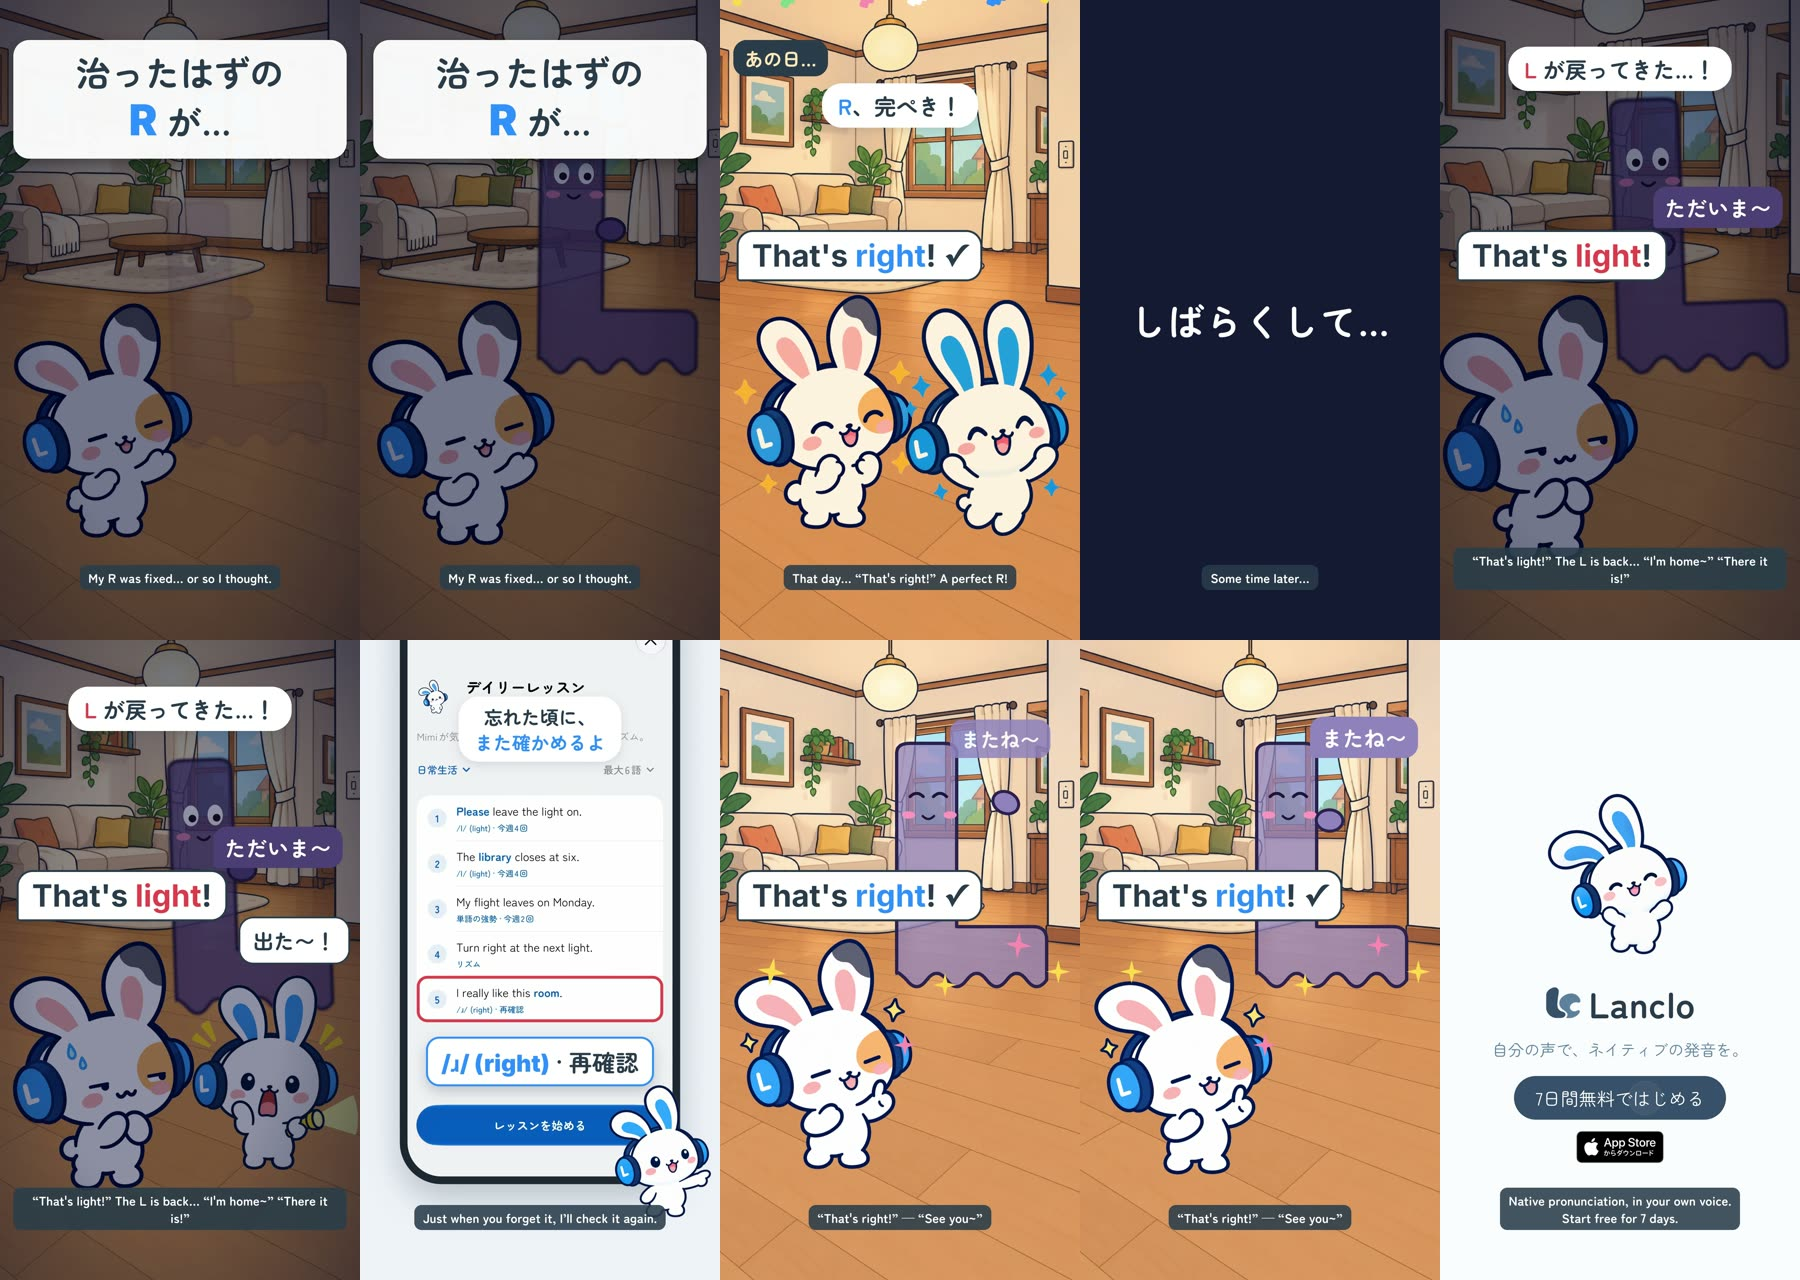
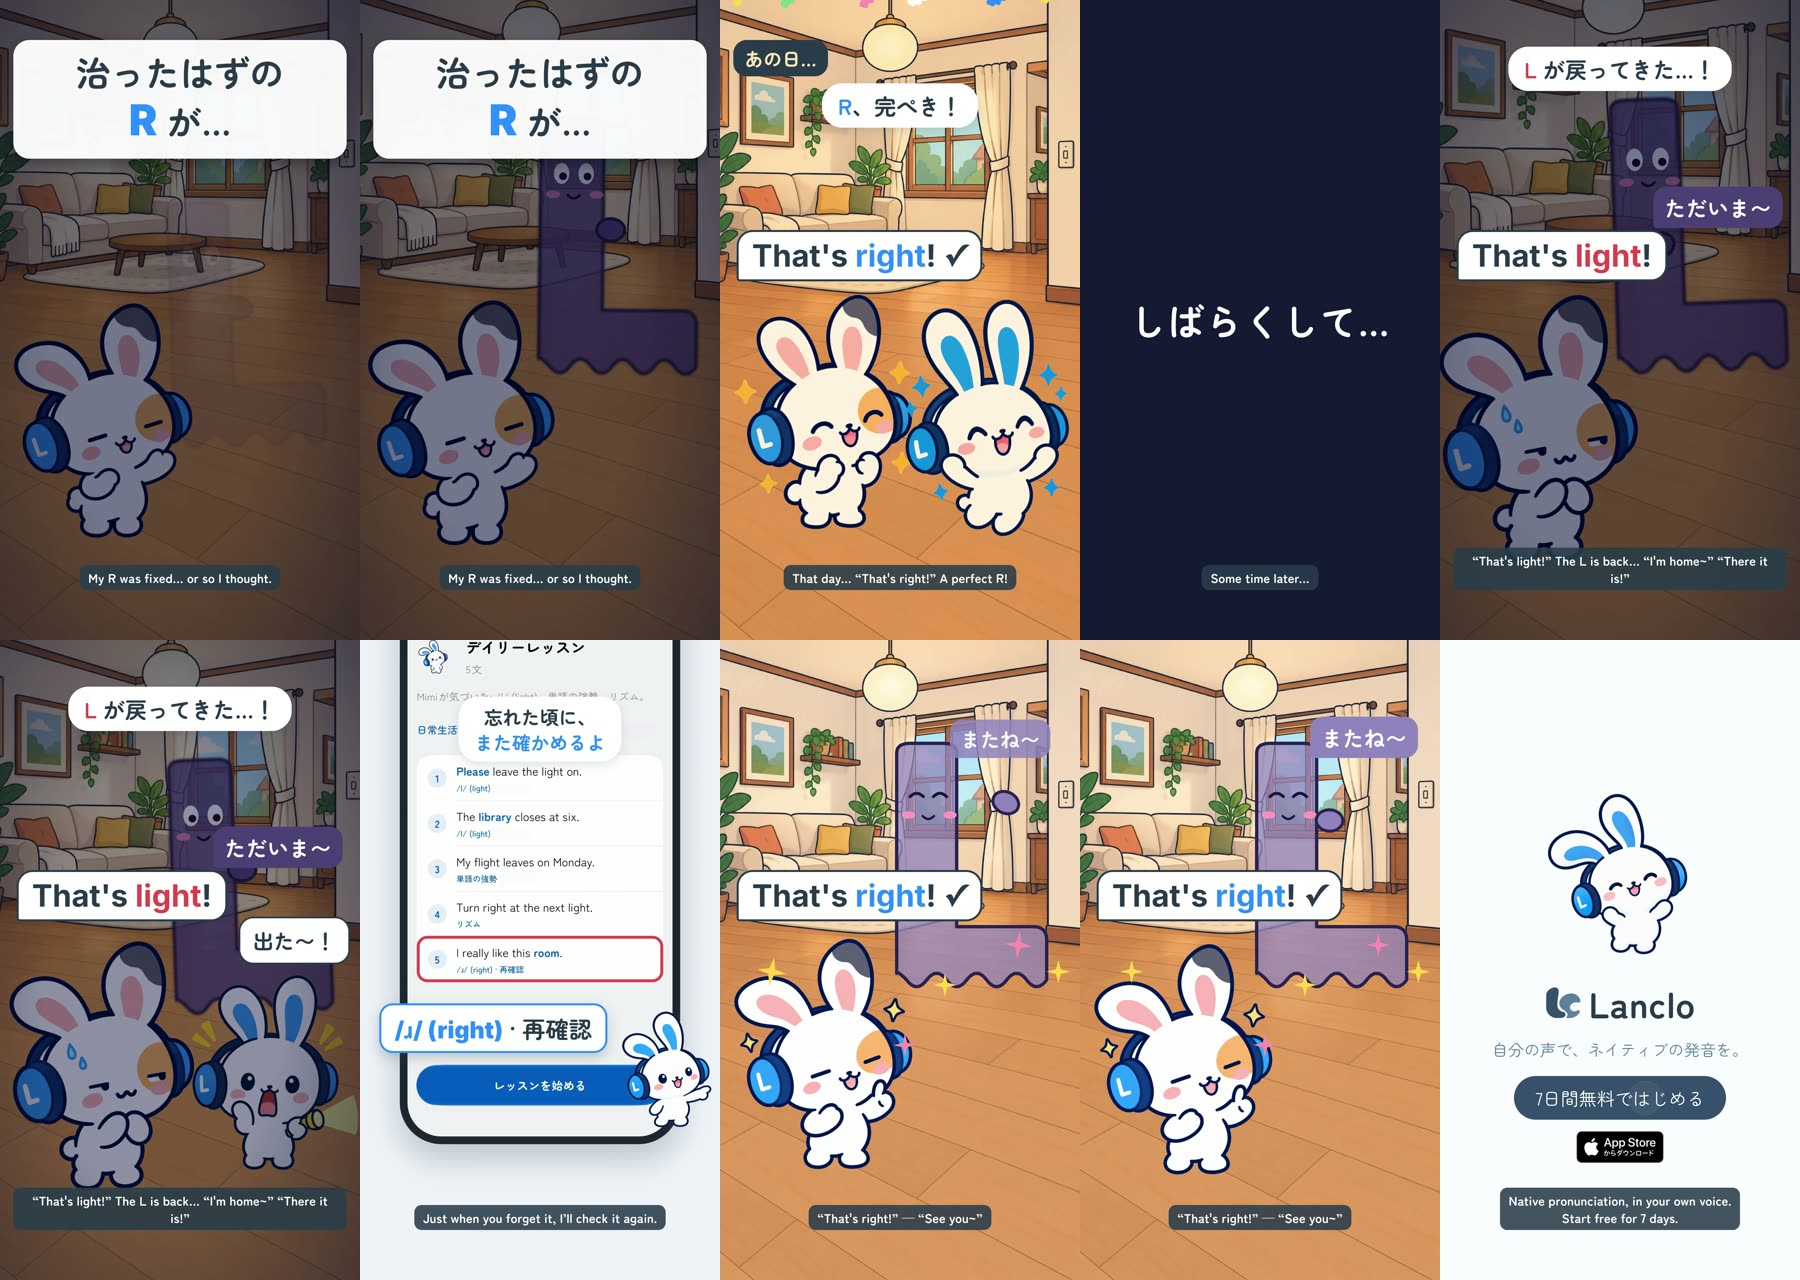
066 The R Came Back v2: -14 LUFS, mask fixture counts, app label above the bottom zone

Changed region(s): [[0.1867, 0.5, 0.4044, 0.9375]]

diff --git a/films/mimi-recheck-r/source/hf/index.html b/films/mimi-recheck-r/source/hf/index.html
@@ -48,11 +48,13 @@
       #status b { position: absolute; left: 13%; top: 32%; font-size: 24px; font-family: -apple-system, "Helvetica Neue", sans-serif; color: #111; }
       #status i { position: absolute; left: 36%; top: 24%; width: 28%; height: 46%; border-radius: 22px; background: #000; }
       #hl { position: absolute; left: 3.5%; right: 3.5%; top: 66.3%; height: 7.8%; border: 6px solid #e5484d; border-radius: 22px; opacity: 0; }
-      #label { position: absolute; left: 40px; right: 40px; top: 1190px; display: flex; justify-content: center; }
+      .mask { position: absolute; display: block; background: #fcfcfc; }
+      .mask.canvas { background: #efeff3; }
+      #label { position: absolute; left: 20px; right: 300px; top: 1090px; display: flex; justify-content: center; }
       #label span { display: block; background: #ffffff; border: 6px solid #2a8dff; border-radius: 40px; padding: 18px 40px; font-size: 70px; font-weight: 700; color: #273b4b;
                     box-shadow: 0 16px 40px rgba(39, 59, 75, 0.25); white-space: nowrap; }
       #label b { font-family: "Helvetica Neue", Arial, sans-serif; color: #2a8dff; }
-      #a-mimi { position: absolute; left: 740px; top: 1330px; width: 320px; height: auto; transform-origin: 50% 100%; }
+      #a-mimi { position: absolute; left: 780px; top: 1110px; width: 280px; height: auto; transform-origin: 50% 100%; }
       #app .caption { top: 170px; }
       /* English subtitles: bottom safe zone. <body class="no-subs"> renders the Japanese-only cut. */
       body.no-subs .sub { display: none; }
@@ -124,6 +126,11 @@
             <video id="a-app" class="clip" src="assets/app/app.mp4" muted playsinline data-start="9.1" data-duration="4.9" data-track-index="14"></video>
             <div id="status"><b>9:41</b><i></i></div>
             <div id="hl"></div>
+            <!-- masks over the fixture's changing counts (「今週N回」, 「最大6語」); the row labels such as /l/ (light) stay -->
+            <i class="mask" style="left: 31.8%; top: 40.6%; width: 14.5%; height: 1.9%;"></i>
+            <i class="mask" style="left: 31.8%; top: 48.2%; width: 14.5%; height: 1.9%;"></i>
+            <i class="mask" style="left: 34.4%; top: 55.8%; width: 14.5%; height: 1.9%;"></i>
+            <i class="mask canvas" style="left: 71.5%; top: 30.5%; width: 22%; height: 2.5%;"></i>
           </div>
         </div>
         <div id="label"><span id="l-row"><b>/ɹ/ (right)</b> · 再確認</span></div>
@@ -218,7 +225,7 @@
       // The real app (A-X): the overview, zoom on the re-check row, the big label, Mimi's line
       tl.fromTo("#device", { y: 140, opacity: 0 }, { y: 0, opacity: 1, duration: 0.3, ease: "power3.out" }, A);
       tl.fromTo("#a-mimi", { y: 320 }, { y: 0, duration: 0.25, ease: "back.out(1.6)" }, A + 0.15);
-      tl.to("#device", { scale: 1.45, y: -300, duration: 0.5, ease: "power2.inOut" }, ZOOM);
+      tl.to("#device", { scale: 1.45, y: -420, duration: 0.5, ease: "power2.inOut" }, ZOOM);
       tl.fromTo("#hl", { opacity: 0 }, { opacity: 1, duration: 0.15 }, LBL - 0.1);
       tl.fromTo("#label", { scale: 0.6, opacity: 0 }, { scale: 1, opacity: 1, duration: 0.22, ease: "back.out(2)" }, LBL);
       k.pop("#a-cap", LINE);

diff --git a/films/mimi-recheck-r/source/scripts/mix.py b/films/mimi-recheck-r/source/scripts/mix.py
@@ -52,4 +52,26 @@ tt = np.arange(m.n) / SR
 m.m *= np.interp(tt, [0, FL - 0.05, FL + 0.2, SK - 0.1, SK, MI, MI + 0.3, END], [0, 0, 1, 1, 0, 0, 1, 1])
 m.end_chord(E)
 m.sfx(pochi(), E + 0.6)
-print(m.write(SRC / 'hf/assets/mix.wav'))
+out = m.write(SRC / 'hf/assets/mix.wav')
+# loudnorm's single pass stops short of -14 on a short, voice-sparse film (true peak bound): measure, add the missing gain
+# in front of a limiter at -2 dBFS (true peak stays under -1.5 dBTP), and measure again. The balance between voice, SFX and bed is unchanged
+# (same step as films/mimi-katakana-mcdonalds).
+import json as _j, re, shutil, subprocess  # noqa: E402
+
+
+def lufs(f):
+    err = subprocess.run(['ffmpeg', '-hide_banner', '-nostats', '-i', str(f), '-af', 'loudnorm=print_format=json', '-f', 'null', '-'],
+                         capture_output=True, text=True).stderr
+    d = _j.loads(re.search(r'\{[^{}]*\}', err[err.rfind('Parsed_loudnorm'):]).group(0))
+    return float(d['input_i']), float(d['input_tp'])
+
+
+for _ in range(3):
+    i, tp = lufs(out)
+    if abs(i + 14) < 0.3:
+        break
+    tmp = out.with_suffix('.tmp.wav')
+    subprocess.run(['ffmpeg', '-v', 'error', '-y', '-i', str(out), '-af',
+                    f'volume={-14 - i + 0.1:.2f}dB,alimiter=limit=0.79:level=false:attack=1:release=60', '-ar', str(SR), str(tmp)], check=True)
+    shutil.move(tmp, out)
+print(out, 'I=%.1f LUFS TP=%.1f dBTP' % lufs(out))

diff --git a/films/mimi-recheck-r/PROCESS.md b/films/mimi-recheck-r/PROCESS.md
@@ -23,4 +23,11 @@
 - 声：友だちの英語はオーナーの声2本だけ（us “That's right!”、learner スタイル “That's light!”）。最後の正しい “That's right!” は us のテイクを再利用。
 - 発音の確認（音響）：Praat（parselmouth）でフォルマントを確認。us-right の語頭（0.60–0.68 s）は F3 が約1600–1780 Hz まで下がり、はっきりした /ɹ/。learner-light の語頭（0.71–0.80 s）は F1 約250–300 Hz、F3 約2500–3700 Hz で F3 の落ち込みなし＝ /l/。Whisperは使っていない。
 - 怖くしない：暗さは乗算 0.62、音は低くやわらかいドゥンと短調パッドだけ。おばけには目とほっぺ、最後は笑顔で手を振る。
-- 音量：Mix.write（−14 LUFS 目標の loudnorm）。書き出しの実測は約 −17 LUFS、ピーク −1.4 dBFS。声が一番上、フックのドゥンは声より約5 dB下に下げた。
+- 音量：声が一番上、フックのドゥンは声より約5 dB下に下げた。
+
+## 指揮セッションのレビュー（2026-10-23、v2）
+
+1. 音量：Mix.write の loudnorm は短く声の少ない作品で −14 に届かない（v1 は約 −17 LUFS）。mimi-katakana-mcdonalds と同じく、測ってから足りないゲインをかけ、リミッター（−2 dBFS、true peak を −1.5 dBTP 以下に保つ）を通して測り直す。v2 は −14.2 LUFS、TP −1.75 dBTP。声・SFX・BGMのバランスは同じ。
+2. アプリの画面からフィクスチャの回数（1–3行目の「今週4回」「今週2回」、「最大6語」）を背景色の四角でマスク。/l/ (light) などの行ラベルは残す。
+3. 大きなラベル「/ɹ/ (right) · 再確認」と小さなMimiを下400 pxの外へ（ズームを上げて、ラベルを5行目のすぐ下、Mimiをその横に）。
+Drive の v1 は `old/` に `_v1` をつけて移した。
